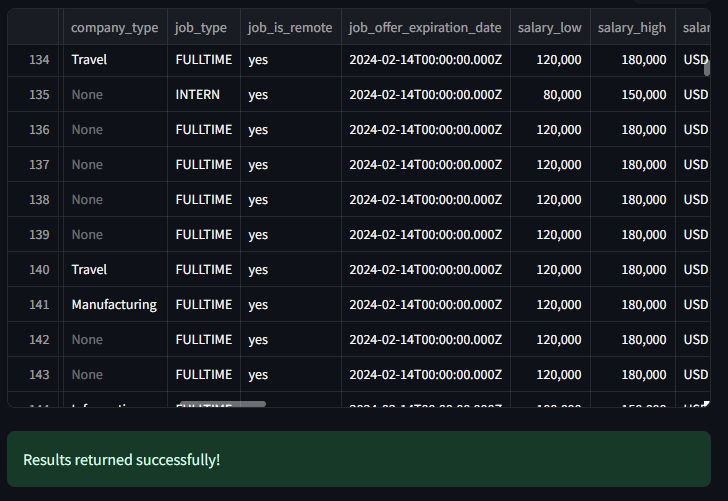
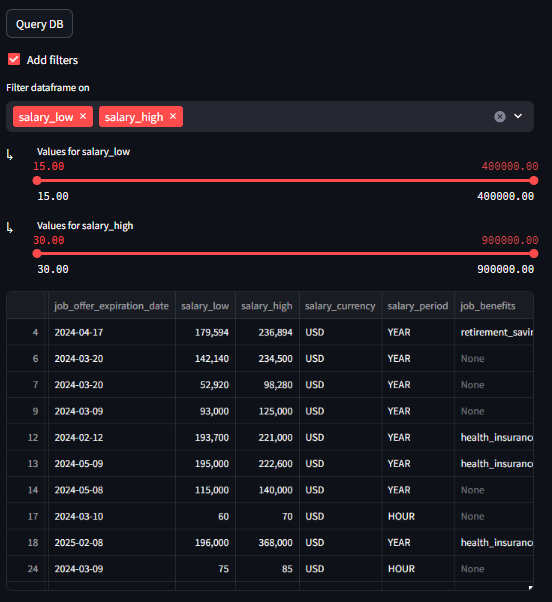
Update main.py

diff --git a/jobhunter/main.py b/jobhunter/main.py
@@ -45,31 +45,29 @@ def filter_dataframe(df: pd.DataFrame) -> pd.DataFrame:
 
     # Try to convert datetimes into a standard format (datetime, no timezone)
     for col in df.columns:
-        if is_object_dtype(df[col]):
+        if pd.api.types.is_object_dtype(df[col]):
             try:
-                df[col] = pd.to_datetime(df[col])
+                df[col] = pd.to_datetime(df[col]).dt.date
             except Exception:
                 pass
-
-        if is_datetime64_any_dtype(df[col]):
-            df[col] = df[col].dt.date
-
 
     to_filter_columns = st.multiselect("Filter dataframe on", df.columns)
 
     for column in to_filter_columns:
-        print(f"Selected column: {column}")
-        print(f"Unique values: {df[column].unique()}")
-
+        unique_values = df[column].dropna().unique()
+        if len(unique_values) == 0:
+            st.warning(f"No available data for filtering on {column}. Skipping this filter.")
+            continue
 
         left, right = st.columns((1, 20))
         left.write("↳")
-        # Treat columns with < 10 unique values as categorical
-        if is_categorical_dtype(df[column]) or df[column].nunique() < 20:
+        # Update the rest of your filtering logic here
+        if is_categorical_dtype(df[column]) or df[column].nunique() < 10:
+            # Ensure that the default list does not contain NaN
             user_cat_input = right.multiselect(
                 f"Values for {column}",
-                df[column].unique(),
-                default=list(df[column].unique()),
+                options=unique_values,  # Use the filtered list of unique values
+                default=unique_values,  # Default to all unique values (excluding NaN)
             )
             df = df[df[column].isin(user_cat_input)]
         elif is_numeric_dtype(df[column]):
@@ -85,17 +83,10 @@ def filter_dataframe(df: pd.DataFrame) -> pd.DataFrame:
             )
             df = df[df[column].between(*user_num_input)]
         elif is_datetime64_any_dtype(df[column]):
-            user_date_input = right.date_input(
-                f"Values for {column}",
-                value=(
-                    df[column].min(),
-                    df[column].max(),
-                ),
-            )
-            if len(user_date_input) == 2:
-                user_date_input = tuple(map(pd.to_datetime, user_date_input))
-                start_date, end_date = user_date_input
-                df = df.loc[df[column].between(start_date, end_date)]
+            min_date = df[column].min()
+            max_date = df[column].max()
+            user_date_input = right.date_input(f"Date range for {column}", value=(min_date, max_date), key=column)
+            df = df[(df[column] >= user_date_input[0]) & (df[column] <= user_date_input[1])]
         else:
             user_text_input = right.text_input(
                 f"Substring or regex in {column}",
